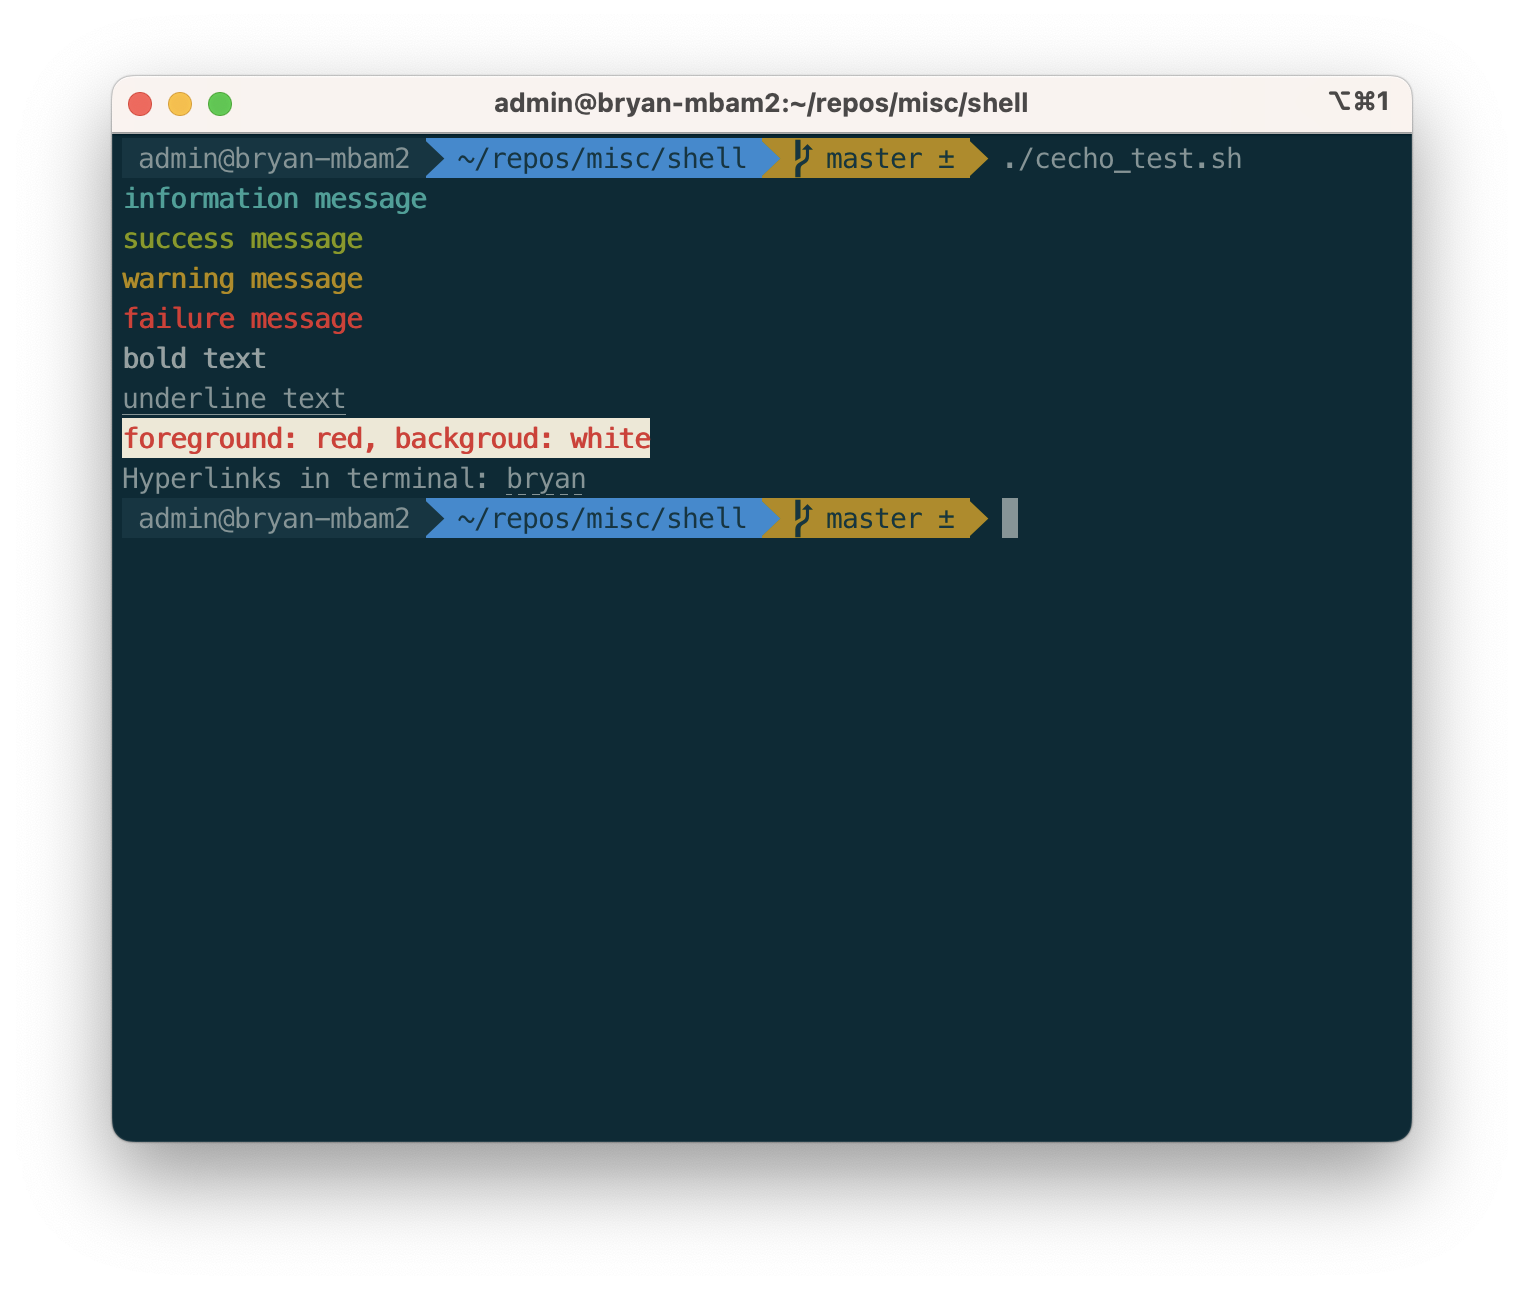
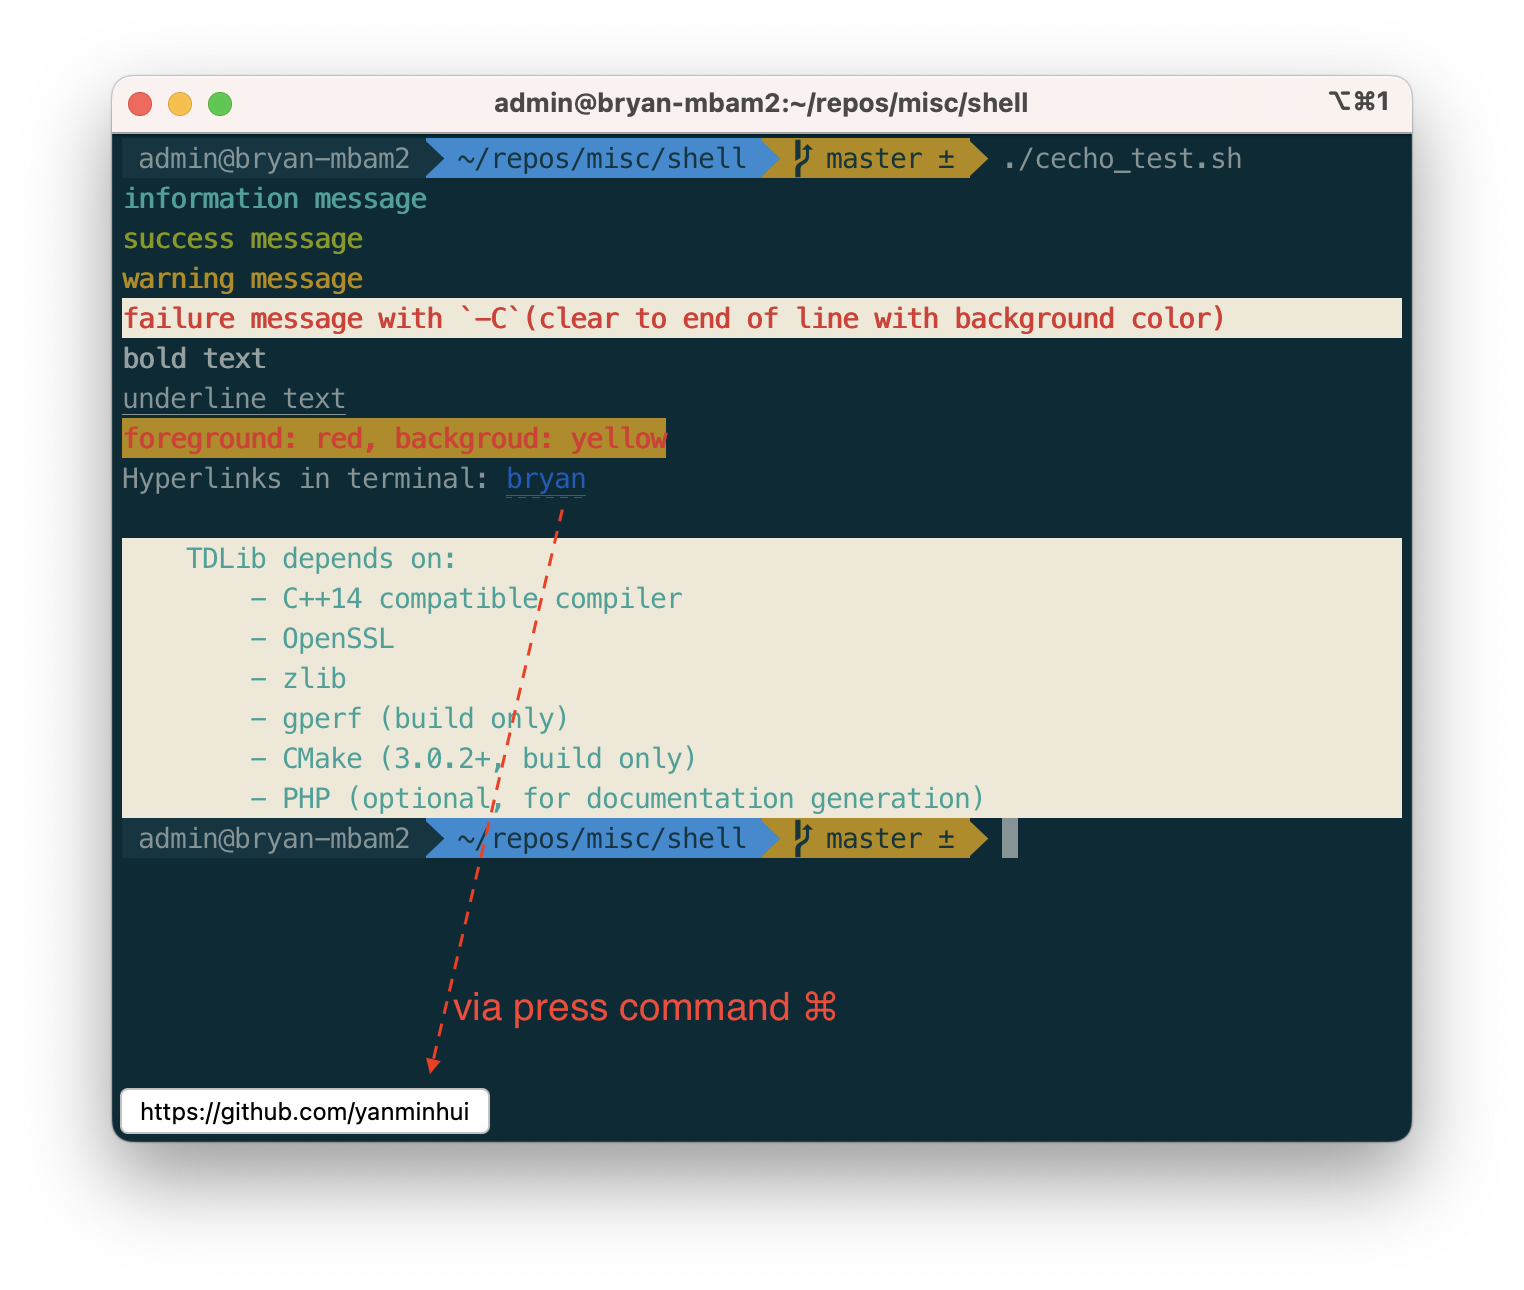
Update 2023-04-21-cecho.md

diff --git a/_posts/githubs/2023-04-21-cecho.md b/_posts/githubs/2023-04-21-cecho.md
@@ -15,7 +15,7 @@ tags: ['GitHub仓库', 'shell']
 
 ```console
 Usage:
-    cecho [-nISWEBU] [-fb color] [-u url] [arg ...]
+    cecho [-nISWEBUC] [-fb color] [-u url] [arg ...]
 
 Options:
     -n	        do not append a newline
@@ -25,6 +25,7 @@ Options:
     -E          error is red text
     -B          bold text
     -U          underlined text
+    -C          clear to end of line with background color
     -f <color>  set foreground color
     -b <color>  set background color
     -u <url>    set hyperlink url
@@ -39,13 +40,25 @@ Color:
 cecho -I -- information message
 cecho -S -- success message
 cecho -W -- warning message
-cecho -E -- failure message
+cecho -E -b white -C -- 'failure message with `-C`(clear to end of line with background color)'
 
 cecho -B -- bold text
 cecho -U -- underline text
-cecho -B -f red -b white -- foreground: red, backgroud: white
+cecho -B -f red -b yellow -- foreground: red, backgroud: yellow
 
-cecho "Hyperlinks in terminal: $(cecho -u https://github.com/yanminhui bryan)"
+cecho  "Hyperlinks in terminal: $(cecho -n -u https://github.com/yanminhui bryan)"
+
+cecho # blank row
+CMAKE_VER=3.0.2
+cecho -C -f cyan -b white << _EOF_
+    TDLib depends on:
+        - C++14 compatible compiler
+        - OpenSSL
+        - zlib
+        - gperf (build only)
+        - CMake (${CMAKE_VER}+, build only)
+        - PHP (optional, for documentation generation)
+_EOF_
 ```
 
 ![cecho](https://raw.github.com/yanminhui/yanminhui.github.io/master/assets/img/cecho.png)
